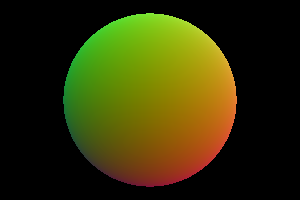
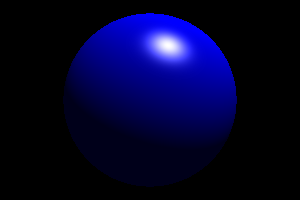
Phong lighting

diff --git a/scene.py b/scene.py
@@ -18,7 +18,7 @@ class Scene:
         self.objects.append(object)
 
     def add_light(self, light):
-        self.lights.appent(light)
+        self.lights.append(light)
 
     def render(self):
         pixels = [[self.background for u in range(self.width)]
@@ -31,21 +31,35 @@ class Scene:
                           + self.camera.up * ((self.height - 1) / 2 - v))
                 ray = Ray(self.camera.position, vector.normalize())
                 for obj in self.objects:
+                    # TODO: z sort and get closest intersection
                     intersection = obj.intersection(ray)
                     if intersection is not None:
+                        point = intersection['point']
                         t = intersection['t']
-                        normal = obj.normal(intersection['point'])
+                        n = obj.normal(point)
 
                         mat = obj.material
                         ka = mat.ambient
                         kd = mat.diffuse
                         ks = mat.specular
-                        a = mat.shinines
+                        a = mat.shininess
 
-                        pixels[v][u] = Color(
-                            int((normal.x + 1) * 255 / 2),
-                            int((normal.y + 1) * 255 / 2),
-                            int((normal.z + 1) * 255 / 2)
-                        )
+                        color = Color.BLACK
+
+                        for light in self.lights:
+                            la = light.ambient
+                            ld = light.diffuse
+                            ls = light.specular
+                            l = (light.position - point).normalize()
+                            r = (l * n) * 2 * n - l
+                            view = (-vector).normalize()
+
+                            color += ka * la
+                            if l * n > 0:
+                                color += kd * (l * n) * ld
+                            if r * view > 0:
+                                color += ks * (r * view)**a * ls
+
+                        pixels[v][u] = color
 
         return pixels

diff --git a/color.py b/color.py
@@ -3,9 +3,9 @@ import numbers
 
 class Color:
     def __init__(self, r, g, b):
-        self.r = r
-        self.g = g
-        self.b = b
+        self.r = round(r)
+        self.g = round(g)
+        self.b = round(b)
         self.clamp()
 
     # make this class an iterable so we can convert to tuple
@@ -18,6 +18,9 @@ class Color:
             self.g + other.g,
             self.b + other.b
         )
+
+    def __iadd__(self, other):
+        return self + other
 
     def __mul__(self, other):
         if isinstance(other, numbers.Number):
@@ -32,6 +35,9 @@ class Color:
             self.g / 255 * other.g,
             self.b / 255 * other.b,
         )
+
+    def __str__(self):
+        return f'C{(self.r, self.g, self.b)}'
 
     def clamp(self):
         self.r = max([min([self.r, 255]), 0])

diff --git a/main.py b/main.py
@@ -7,14 +7,17 @@ from scene import Scene
 from sphere import Sphere
 from color import Color
 from light import Light
+from phong import Phong
 
 camera = Camera(Point.ORIGIN, Vector.J, Vector.K)
 scene = Scene(camera, 300, 200, 90, Color.BLACK)
-light = Light(Point(10, 50, 10), Color.WHITE, Color.WHITE, Color.WHITE)
+light = Light(Point(10, 30, -5), Color.WHITE * 0.1, Color.WHITE, Color.WHITE)
 
-sphere = Sphere(Point(0, 0, 10), 5)
+material = Phong(Color.BLUE, Color.BLUE, Color.WHITE, 20)
+sphere = Sphere(Point(0, 0, 10), 5, material)
 
 scene.add(sphere)
+scene.add_light(light)
 
 result = scene.render()
 

diff --git a/vector.py b/vector.py
@@ -27,6 +27,9 @@ class Vector:
     def __rmul__(self, other):
         return self * other
 
+    def __neg__(self):
+        return Vector.ZERO - self
+
     # magnitude
     def __abs__(self):
         return math.sqrt(sum([e * e for e in self.elements]))
